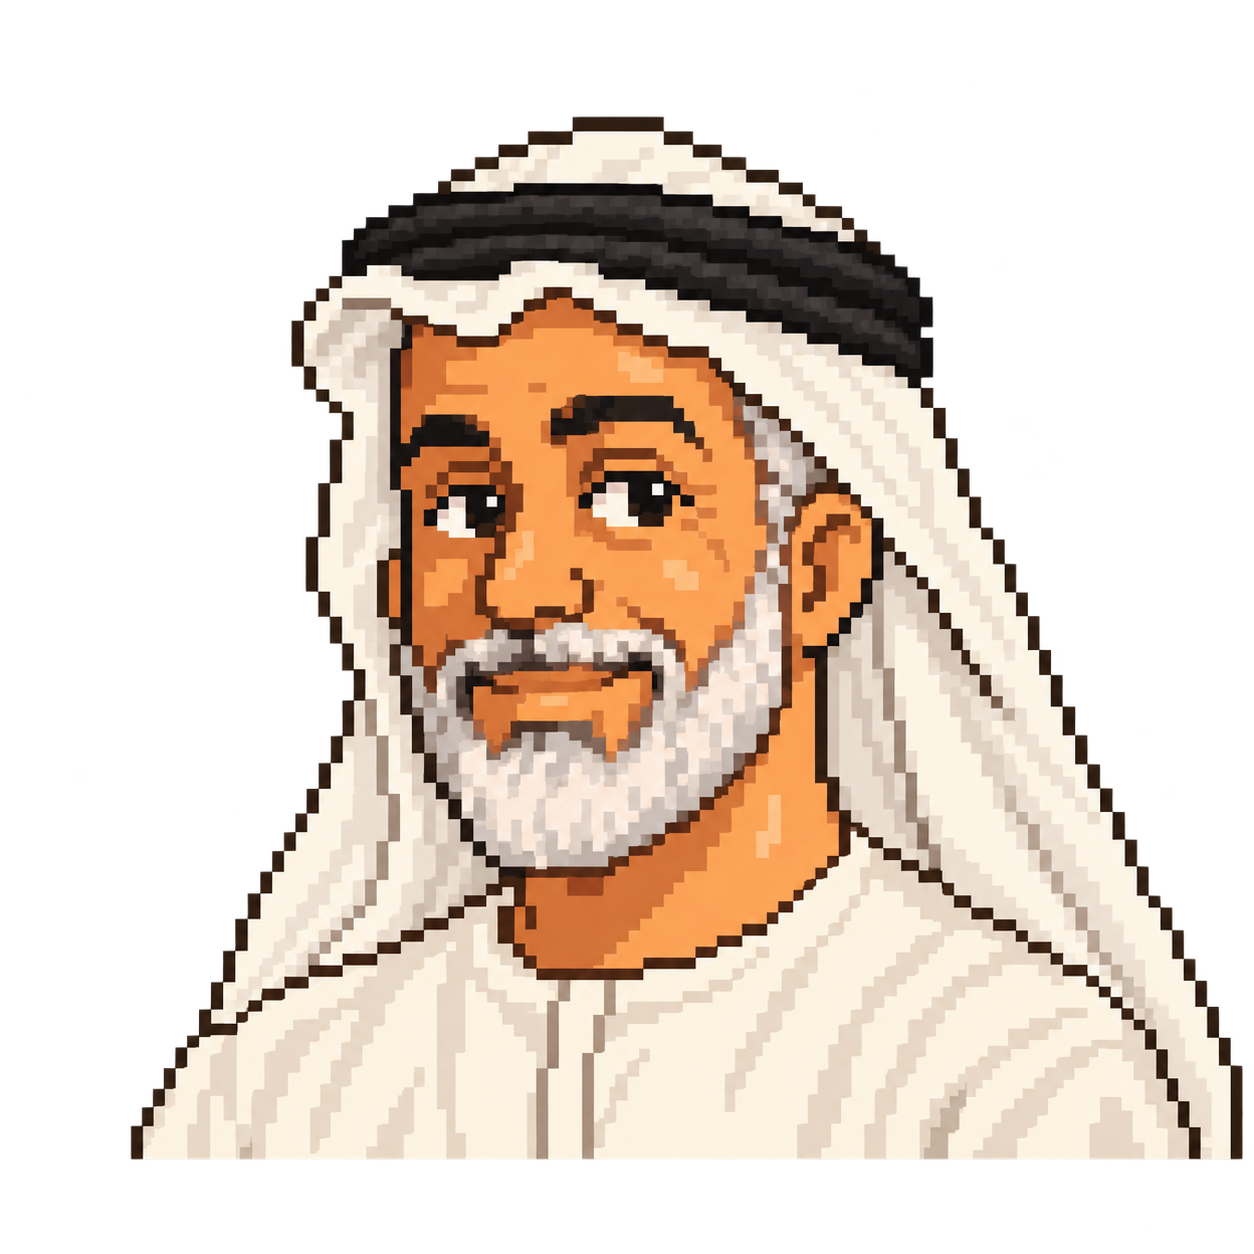
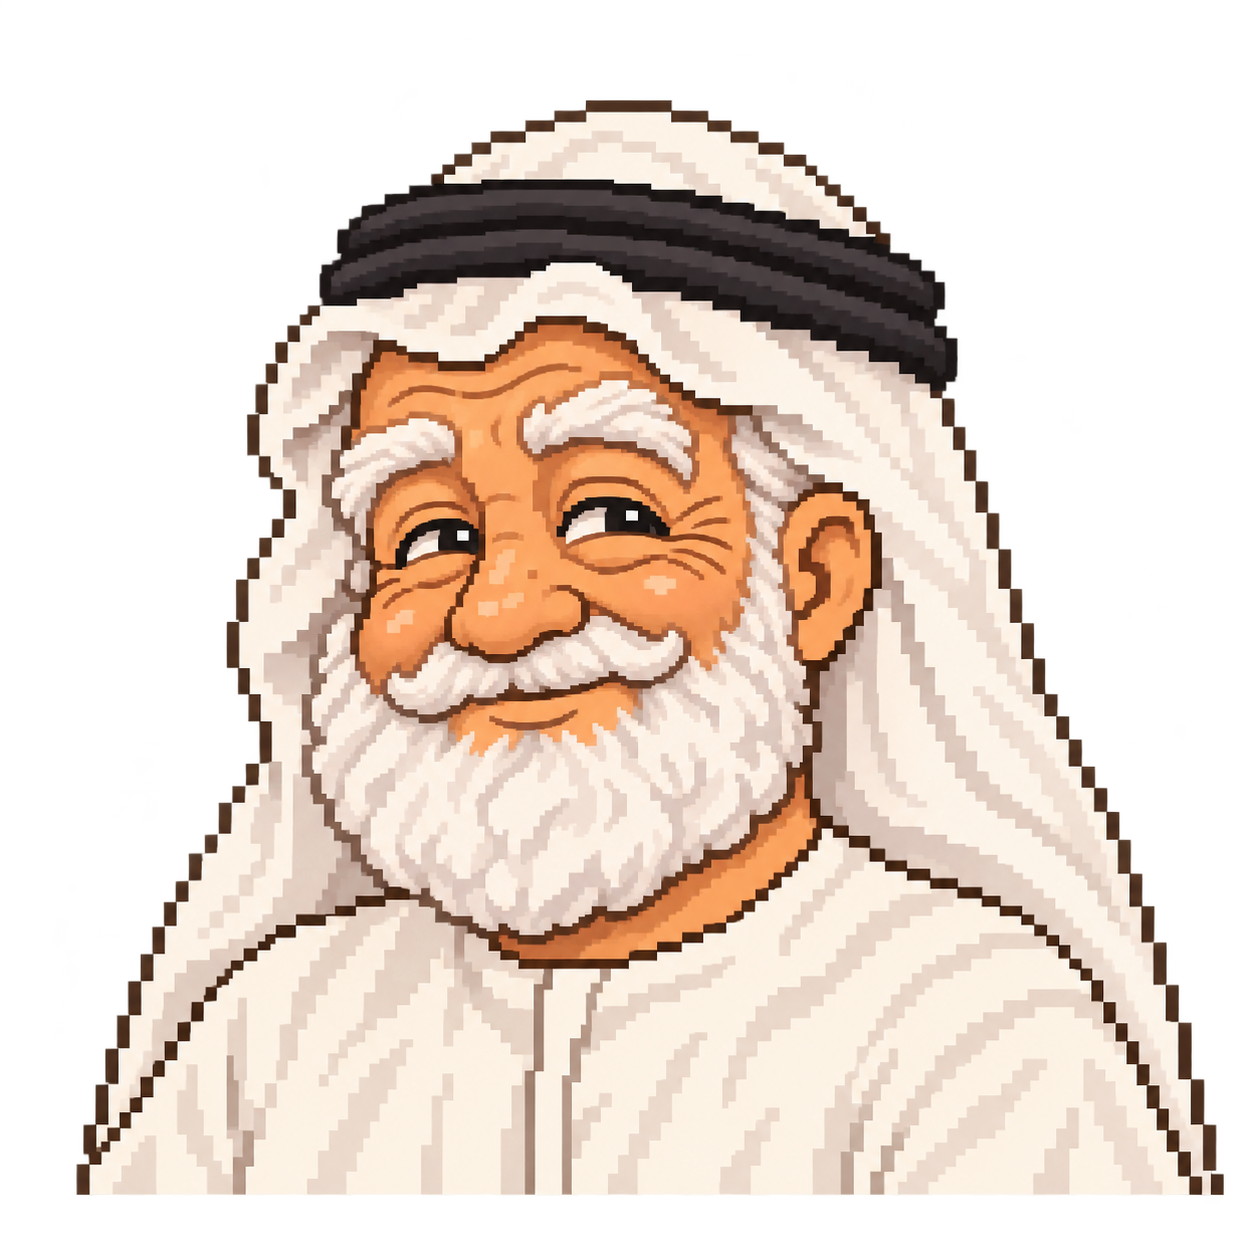
Add opening language choice and friendly elderly shopkeeper

diff --git a/public/game-test/index.html b/public/game-test/index.html
@@ -16,7 +16,7 @@
   <header class="site-header">
     <a href="https://www.fasthaus.ae" class="wordmark" aria-label="Fasthaus home" data-i18n-aria="home"><img src="./assets/logo-ivory.svg" width="126" height="32" alt="Fasthaus"></a>
     <div class="header-actions">
-    <button type="button" id="language-switch" class="language-switch" lang="ar" dir="rtl" aria-label="Switch to Arabic" aria-pressed="false">العربية</button>
+    <button type="button" id="language-switch" class="language-switch" lang="ar" dir="rtl" aria-label="Switch to Arabic" aria-pressed="false" hidden>العربية</button>
     <a class="studio-link" href="https://www.fasthaus.ae/collection"><span data-i18n="back">Back to the collection</span> <svg aria-hidden="true" viewBox="0 0 24 24"><path d="M5 12h14m-6-6 6 6-6 6"/></svg></a>
     </div>
   </header>
@@ -57,8 +57,16 @@
       </section>
       <div class="game-footer"><span id="play-tip"><svg viewBox="0 0 24 24" aria-hidden="true"><path d="M7 3h10v18H7V3Zm0 5h10M12 3v5"/></svg> Choose your reply to continue</span><div><button id="sound" aria-pressed="false"><svg viewBox="0 0 24 24" aria-hidden="true"><path d="m11 4-5 4H3v8h3l5 4V4Zm5 5 5 6m0-6-5 6"/></svg><span>Sound off</span></button><button id="restart" hidden data-i18n="restart">Start over</button></div></div>
       </div>
-      <section class="start-overlay" id="start-overlay" aria-labelledby="start-title">
-        <div class="start-content">
+      <section class="start-overlay" id="start-overlay" aria-labelledby="language-title">
+        <div class="start-content language-choice" id="language-choice">
+          <h2 id="language-title" lang="en" dir="ltr">Which language would you like to play in?</h2>
+          <p class="language-question-ar" lang="ar" dir="rtl">بأيّ لغة تودّ اللعب؟</p>
+          <div class="language-options" role="group" aria-labelledby="language-title">
+            <button type="button" id="choose-english" class="primary-button" lang="en" dir="ltr">English</button>
+            <button type="button" id="choose-arabic" class="primary-button" lang="ar" dir="rtl">العربية</button>
+          </div>
+        </div>
+        <div class="start-content" id="start-content" hidden>
           <h2 id="start-title" data-i18n="startTitle">Ready to find the light?</h2>
           <p data-i18n="startDescription">Four lamps. Three stories to find.<br>A little curiosity goes a long way.</p>
           <button type="button" class="primary-button" id="enter-studio"><svg viewBox="0 0 24 24" aria-hidden="true"><path d="m8 5 10 7-10 7V5Z"/></svg> <span data-i18n="start">Start game</span></button>

diff --git a/public/game-test/style.css b/public/game-test/style.css
@@ -109,3 +109,12 @@ html[lang="ar"] .start-content>span{font-size:13px;line-height:1.8}
   .game-footer{align-items:flex-start;flex-wrap:wrap}.game-footer>div{margin-inline-start:auto}
 }
 @media(prefers-reduced-motion:no-preference){.primary-button,.hint-button,.language-switch,.copy-button{transition:background-color 160ms ease-out,border-color 160ms ease-out,box-shadow 160ms ease-out}}
+
+.language-choice{max-width:40ch}
+.language-choice #language-title{font-family:Pixelify,Satoshi,sans-serif;font-size:29px;line-height:1.35;letter-spacing:0}
+#language-choice .language-question-ar{font-family:GameArabic,sans-serif;font-size:21px;line-height:1.9;color:var(--ink)}
+.language-options{display:flex;justify-content:center;gap:16px;width:100%;direction:ltr}
+.language-options .primary-button{flex:1;min-width:145px;justify-content:center;font-size:17px;padding:15px 20px}
+.language-options [lang="ar"]{font-family:GameArabic,sans-serif}
+.portrait img{clip-path:inset(0 0 5% 0)}
+@media(max-width:480px){.language-choice #language-title{font-size:25px}#language-choice .language-question-ar{font-size:19px}.language-options{flex-direction:column;gap:13px}.language-options .primary-button{min-width:0;width:100%}}
